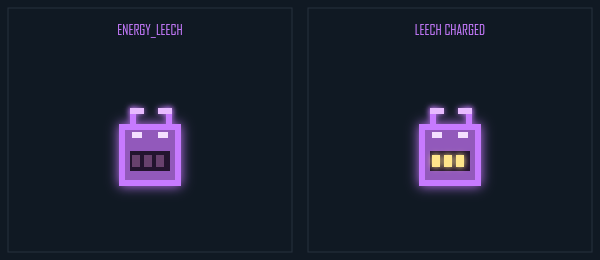
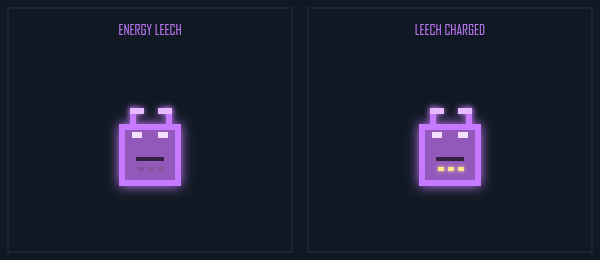
Polish Ruby Star rewards, event pacing, and Prayer warnings

Changed region(s): [[0.69, 0.5538, 0.81, 0.6769], [0.21, 0.5538, 0.3, 0.6769], [0.18, 0.0923, 0.33, 0.1538]]

diff --git a/app/ruby-star/page.tsx b/app/ruby-star/page.tsx
@@ -426,12 +426,7 @@ function drawMinimap(
       ctx.lineWidth = 1;
       ctx.strokeRect(bx - 4, by - 4, 10, 10);
       ctx.shadowBlur = 0;
-      if (e.type === 'blind_prayer' && (e.prayer?.rubyCastTicks ?? 0) > 0 && e.prayer!.rubyDestination >= 0) {
-        const destination = e.prayer!.rubyDestination;
-        const center = [[10, 10], [39, 10], [10, 39], [39, 39]][destination];
-        ctx.strokeStyle = Math.floor(tickN / 8) % 2 ? '#ffffff' : '#ffdd22';
-        ctx.strokeRect(MX + center[0] * S - 4, MY + center[1] * S - 4, 10, 10);
-      }
+
     }
   }
 
@@ -439,7 +434,7 @@ function drawMinimap(
   ctx.font = '6px monospace';
   ctx.textAlign = 'center';
   ctx.textBaseline = 'middle';
-  const labelPts = [[10, 10], [39, 10], [10, 39], [39, 39]];
+  const labelPts = [[3, 3], [32, 3], [3, 32], [32, 32]];
   for (let i = 0; i < 4; i++) {
     const [lx, ly] = labelPts[i];
     ctx.fillStyle = CHAMBER_COLORS[i] + 'cc';
@@ -3184,17 +3179,18 @@ function drawEnemy(ctx: CanvasRenderingContext2D, e: ReturnType<typeof createIni
   if (!flash) {
     const eyeY = sy - half + pad + 1;
     if (e.type === 'energy_leech') {
-      const width=Math.floor(size*.6),left=Math.round(sx-width/2),top=Math.round(sy-1);
-      ctx.fillStyle='#f4dfff';
-      ctx.fillRect(left,eyeY,5,3);ctx.fillRect(left+width-5,eyeY,5,3);
-      // Three cells fill as it steals energy; full brightness at 60 stored energy.
-      ctx.fillStyle='#23142e';ctx.fillRect(left-1,top-1,width+2,10);
-      const cells=Math.min(3,Math.ceil((e.stolenEnergy??0)/20)),cellW=Math.max(2,Math.floor((width-4)/3));
-      for(let i=0;i<3;i++){
-        ctx.shadowColor='#ffe58b';ctx.shadowBlur=i<cells?4:0;
-        ctx.fillStyle=i<cells?'#ffe58b':'#68416d';ctx.fillRect(left+i*(cellW+2),top+1,cellW,6);
+      const width = Math.floor(size * .6), left = Math.round(sx - width / 2);
+      ctx.fillStyle = '#f4dfff';
+      ctx.fillRect(left, eyeY, 5, 3); ctx.fillRect(left + width - 5, eyeY, 5, 3);
+      // Slim collector slit with inset storage lights, contained within the shell.
+      const mouthY = Math.round(sy + 1), cells = Math.min(3, Math.ceil((e.stolenEnergy ?? 0) / 20));
+      ctx.fillStyle = '#352043'; ctx.fillRect(left + 2, mouthY, width - 4, 2);
+      for (let i = 0; i < 3; i++) {
+        ctx.shadowColor = '#ffe58b'; ctx.shadowBlur = i < cells ? 3 : 0;
+        ctx.fillStyle = i < cells ? '#ffe58b' : '#82549e';
+        ctx.fillRect(Math.round(sx) - 6 + i * 5, mouthY + 5, 3, 2);
       }
-      ctx.shadowBlur=0;
+      ctx.shadowBlur = 0;
     } else if (e.type === 'sniper') {
       // 1 large central cycloptic eye
       const eyeSz = Math.max(4, Math.floor(size * 0.34));
@@ -4485,6 +4481,7 @@ export default function RubyStarPage() {
   const powered = (state?.poweredTicks ?? 0) > 0 || (state?.starEnergy ?? 0) >= STAR_ENERGY_MAX;
   const carrying = state?.playerCarryingRuby ?? true;
   const godPanelTop = 8;
+  const prayerSpawnWarning = phase === 'playing' && (state?.bossSpawnTicks ?? 0) > 0 && !!state && isMovementReversed(state);
   const playerStatuses: { key: string; label: string; color: string; seconds?: number; progress?: number }[] = [];
   if(state){
     if(state.playerFrozenTicks>0)playerStatuses.push({key:'frozen',label:'FROZEN',color:'#b4eaff',seconds:state.playerFrozenTicks/60,progress:state.playerFrozenTicks/90});
@@ -4869,7 +4866,7 @@ export default function RubyStarPage() {
           </div>
 
           <div className="rs-god-actions">
-            <button type="button" disabled={phase !== 'playing'}
+            <button type="button" disabled={phase !== 'playing' || !!state?.constellationChoices.length}
               style={{ cursor: phase === 'playing' ? 'pointer' : 'default', background: '#243148', color: '#bce2ff', border: '2px solid #72baff', opacity: phase === 'playing' ? 1 : 0.5 }}
               onClick={() => { if (stateRef.current) godAdvanceStage(stateRef.current); rerender(); }}>Stage +1</button>
             <button type="button" aria-label="Reset game" onClick={handleRestart}
@@ -4959,7 +4956,16 @@ export default function RubyStarPage() {
           </div>
         )}
 
-        {phase === 'playing' && (state?.ascensionBannerTicks ?? 0) > 0 && (
+        {prayerSpawnWarning && (
+          <div role="alert" className="rs-prayer-warning" style={{ position: 'absolute', top: 64, left: '50%', transform: 'translateX(-50%)',
+            zIndex: 90, maxWidth: 'calc(100% - 24px)', width: 'max-content', boxSizing: 'border-box', padding: '10px 16px',
+            background: '#201b0af5', border: '2px solid #ffe477', boxShadow: '0 0 24px #d8ac3244', textAlign: 'center', pointerEvents: 'none' }}>
+            <div style={{ color: '#cbb775', fontFamily: 'var(--font-mono)', fontSize: 12, fontWeight: 700 }}>BLIND PRAYER SPAWNED</div>
+            <div style={{ color: '#fff0ac', fontFamily: 'var(--font-pixel)', fontSize: 16, lineHeight: 1.8 }}>MOVEMENT REVERSED</div>
+          </div>
+        )}
+
+        {phase === 'playing' && !prayerSpawnWarning && (state?.ascensionBannerTicks ?? 0) > 0 && (
           <div role="status" style={{ position: 'absolute', top: '72px', left: '50%', transform: 'translateX(-50%)',
             width: 'max-content', maxWidth: 'calc(100% - 24px)', boxSizing: 'border-box', textAlign: 'center', pointerEvents: 'none',
             padding: '14px 22px', background: 'rgba(12,9,22,.94)', border: '2px solid #d7a5ff', boxShadow: '0 0 24px rgba(180,100,255,.3)', borderRadius: '2px' }}>
@@ -4970,7 +4976,7 @@ export default function RubyStarPage() {
           </div>
         )}
 
-        {phase === 'playing' && (state?.bossSpawnTicks ?? 0) > 0 && (state?.ascensionBannerTicks ?? 0) <= 0 && (
+        {phase === 'playing' && !prayerSpawnWarning && (state?.bossSpawnTicks ?? 0) > 0 && (state?.ascensionBannerTicks ?? 0) <= 0 && (
           <div role="status" style={{
             position: 'absolute', top: '80px', left: '50%', transform: 'translateX(-50%)',
             width: 'max-content', maxWidth: 'calc(100% - 24px)', boxSizing: 'border-box',
@@ -5065,7 +5071,7 @@ export default function RubyStarPage() {
         )}
 
         {state && (state.ambientEvents.warning || state.ambientEvents.active) && <div className="rs-event-banner" role="status"
-          style={{ color: state.ambientEvents.rewardTicks > 0 ? '#ffe18c' : AMBIENT_EVENTS[(state.ambientEvents.warning || state.ambientEvents.active)!.kind].color,
+          style={{ top: prayerSpawnWarning ? 148 : (state.ascensionBannerTicks > 0 ? 212 : state.bossSpawnTicks > 0 ? 140 : 64), color: state.ambientEvents.rewardTicks > 0 ? '#ffe18c' : AMBIENT_EVENTS[(state.ambientEvents.warning || state.ambientEvents.active)!.kind].color,
             borderColor: state.ambientEvents.rewardTicks > 0 ? '#ffe18c' : AMBIENT_EVENTS[(state.ambientEvents.warning || state.ambientEvents.active)!.kind].color }}>
           {state.ambientEvents.rewardTicks > 0 ? <strong>STELLAR SHARD COLLECTED</strong> : (() => {
             const event = state.ambientEvents.warning || state.ambientEvents.active!;

diff --git a/app/ruby-star/engine.ts b/app/ruby-star/engine.ts
@@ -98,9 +98,7 @@ function offerConstellation(state: GameState) {
   const choices: Constellation[] = [];
   while (choices.length < 2 && pool.length) choices.push(pool.splice(Math.floor(Math.random() * pool.length), 1)[0]);
   state.constellationChoices = choices;
-  state.gamePhase = 'constellation';
-  state.playerQueuedDirX = state.playerQueuedDirY = 0;
-  stopChargeSound(); stopPoisonSound(); stopSingularitySound(); stopGaiaFieldSound();
+  state.constellationDelayTicks = 60;
 }
 
 export function chooseConstellation(state: GameState, kind: Constellation): boolean {
@@ -430,6 +428,7 @@ export interface GameState {
   bossSpawnTicks: number;   // remaining ticks of the post-spawn name banner
   constellations: Constellation[];
   constellationChoices: Constellation[];
+  constellationDelayTicks: number;
   bossesKilled: number;     // tracks how many bosses have been killed (each +15 HP)
   bossPool: BossType[];     // natural spawns draw every boss once before reshuffling
   lastNaturalBoss: BossType | null;
@@ -909,6 +908,7 @@ export function createInitialState(): GameState {
     bossSpawnTicks: 0,
     constellations: [],
     constellationChoices: [],
+    constellationDelayTicks: 0,
     bossesKilled: 0,
     bossPool: [],
     lastNaturalBoss: null,
@@ -3395,6 +3395,12 @@ function takeNextNaturalBoss(state: GameState): BossType {
 export function tick(state: GameState) {
   if (state.gamePhase !== 'playing') { stopPoisonSound(); stopSingularitySound(); stopGaiaFieldSound(); return; }
 
+  if (state.constellationDelayTicks > 0 && --state.constellationDelayTicks === 0 && state.constellationChoices.length) {
+    state.gamePhase = 'constellation';
+    state.playerQueuedDirX = state.playerQueuedDirY = 0;
+    stopChargeSound(); stopPoisonSound(); stopSingularitySound(); stopGaiaFieldSound();
+    return;
+  }
   state.gameTick++;
   if (state.meteoriteImpact && --state.meteoriteImpact.ticks <= 0) state.meteoriteImpact = null;
   if(state.lunarDecoy){
@@ -3633,7 +3639,7 @@ export function godSetNoMobs(state: GameState, enabled: boolean) {
 // removing whichever boss-tier enemy currently exists (queen decoys are left alone —
 // they persist independently of their queen per normal rules).
 export function godAdvanceStage(state: GameState) {
-  if (state.gamePhase !== 'playing') return;
+  if (state.gamePhase !== 'playing' || state.constellationChoices.length) return;
   state.bossesKilled++;
   state.difficultyLevel = Math.max(state.difficultyLevel, Math.min(DIFFICULTY_TIERS.length - 1, 3 + state.bossesKilled));
   if (state.bossesKilled === SPECIAL_UNLOCK_KILLS) state.ascensionBannerTicks = 360;

diff --git a/app/ruby-star/events.ts b/app/ruby-star/events.ts
@@ -17,9 +17,9 @@ export interface AmbientEventState {
 }
 export const AMBIENT_WARNING_TICKS = 180;
 export const STAR_FALL_TICKS = 36;
-const delay = () => 5400 + Math.floor(Math.random() * 3601);
+const delay = () => 10800 + Math.floor(Math.random() * 7201);
 export function createAmbientEvents(): AmbientEventState {
-  return { timer: 4500 + Math.floor(Math.random() * 2401), pool: [], warning: null, active: null, rewardTicks: 0 };
+  return { timer: 9000 + Math.floor(Math.random() * 3601), pool: [], warning: null, active: null, rewardTicks: 0 };
 }
 export function isEclipseActive(state: GameState): boolean {
   return state.ambientEvents.active?.kind === 'eclipse';

diff --git a/docs/ruby-star/VISUALS.md b/docs/ruby-star/VISUALS.md
@@ -46,7 +46,7 @@ Broad stepped cast rings generally use 12px rectangle steps, light/dark halves, 
 
 ## Aliens and bosses
 
-Maintain the model identities below. Ordinary aliens use a glowing square rim, dark inset and restrained antenna/eye glints. Healer is pink, Shielder teal, Armored blue, Runner orange, Ghost violet/translucent, Splitter green with two separated boxes. Energy Leech uses lavender `#c77aff`, inward collector prongs, two pale slit eyes and three gold storage cells, dark when empty and bright at 20/40/60+ stored energy; drain sparks travel inward along an angular tether.
+Maintain the model identities below. Ordinary aliens use a glowing square rim, dark inset and restrained antenna/eye glints. Healer is pink, Shielder teal, Armored blue, Runner orange, Ghost violet/translucent, Splitter green with two separated boxes. Energy Leech uses lavender `#c77aff`, inward collector prongs, two pale slit eyes a slim collector slit and three inset storage lights, dim lavender when empty and gold at 20/40/60+ stored energy; drain sparks travel inward along an angular tether.
 
 Boss model identities:
 
@@ -69,8 +69,8 @@ Boss attacks use pale luminous cores and selective matching glow. King has stepp
 - Ruby: pink glowing square rim, dark inset, small pale central star, sparse pink fragments. Bomb: orange/gold equivalent with stepped fuse and isolated glowing spark. Bomb affected-tile overlay has a 4px exposed stepped perimeter; explosion has square fronts/flame fragments and a bright center.
 - Heal pickup/reward: red/pink shaded pixel cross. Energy: blue shaded bolt/pale core; rewards use full-energy rays/rising pixel star. Speed: turquoise rays/trails. Electric: separated yellow bolts. Full restore: larger gold rays/rising star. Avoid smooth generic particle circles.
 - Normal shields: **plain single square**, 4px crisp edges, shaded opacity/faint fill and one small border glint. Player blue, Ruby teal. Saturn's faceted ward remains distinct.
-- HUD: square corners, restrained luminous borders. Buttons use filled blue panels, clearly visible 2px borders, pale bold 15px labels and distinct hover/focus states; avoid faint ghost buttons against the dark battlefield. Keep HP, Ruby and energy on the left, labeled by simple luminous pixel icons: solid green plus, solid pink stepped diamond Ruby icon, and solid blue stepped energy bolt (gold while powered), with no inner shading or highlights; **Stage** is exactly centered and visually dominant with a larger pale number and subtle purple text glow, without a border or background panel. Time sits to its right, followed by an icon-only bomb indicator and controls. Bomb states use a glowing orange ready case/green corner, a pulsing lit fuse when armed, and a dim case with a filling square perimeter during cooldown. Accessible labels/tooltips describe the state. Remove the celestial skill slot from the top bar; F and the mobile SPECIAL control remain. Remove score from top panel. God panel sits at the upper left of the battlefield and scrolls; the minimap stays upper right. Minimap uses brighter chamber floor tints, blue-gray hallway floors, crisp chamber-colored room boundaries and pale-blue corridor edges, following connected geometry with open doorways; internal cover does not add boundary clutter. It has no bright central teleport-tile markers; retain room labels and enemy/boss indicators.
-- Game-over: a square dark-blue panel with a pale pixel RUBY STAR title, large purple stage number, four clear blue stat tiles and a high-contrast full-width PLAY AGAIN button. Use bold readable labels and a compact landscape layout; place it above the God panel. Display stage reached; no “lost” in title and no “bosses defeated” replacing stage. Status tags appear only when applicable (chill/freeze, reversal, reduced healing, temporary Ruby placement).
+- HUD: square corners, restrained luminous borders. Buttons use filled blue panels, clearly visible 2px borders, pale bold 15px labels and distinct hover/focus states; avoid faint ghost buttons against the dark battlefield. Keep HP, Ruby and energy on the left, labeled by simple luminous pixel icons: solid green plus, solid pink stepped diamond Ruby icon, and solid blue stepped energy bolt (gold while powered), with no inner shading or highlights; **Stage** is exactly centered and visually dominant with a larger pale number and subtle purple text glow, without a border or background panel. Time sits to its right, followed by an icon-only bomb indicator and controls. Bomb states use a glowing orange ready case/green corner, a pulsing lit fuse when armed, and a dim case with a filling square perimeter during cooldown. Accessible labels/tooltips describe the state. Remove the celestial skill slot from the top bar; F and the mobile SPECIAL control remain. Remove score from top panel. God panel sits at the upper left of the battlefield and scrolls; the minimap stays upper right. Minimap uses brighter chamber floor tints, blue-gray hallway floors, crisp chamber-colored room boundaries and pale-blue corridor edges, following connected geometry with open doorways; internal cover does not add boundary clutter. Teleport pads and ritual destination frames are absent from the minimap; labels sit near chamber corners. Retain enemy/boss indicators.
+- Game-over: a square dark-blue panel with a pale pixel RUBY STAR title, large purple stage number, four clear blue stat tiles and a high-contrast full-width PLAY AGAIN button. Use bold readable labels and a compact landscape layout; place it above the God panel. Display stage reached; no “lost” in title and no “bosses defeated” replacing stage. Prayer spawning shows a prominent four-second MOVEMENT REVERSED warning above other announcements, including during Eclipse and Ascension; the reversal status tag remains while she lives. Status tags appear only when applicable (chill/freeze, reversal, reduced healing, temporary Ruby placement).
 - Navigation arrows are filled stepped pixel SVG icons, not font arrow glyphs. Rules sheets use a blue panel/header, strong dividers, filled control-key cells, larger bold text and high-contrast square buttons.
 - Rules: keep main sheet simple (controls, Ruby, meteor, teleport, energy, Ascension, hints). Prominent filled **ALIENS & BOSSES** button opens 13 alien entries and 8 bosses. Each boss labels reward **“Celestial skill: NAME”**. Both sheets pause gameplay; reopening starts on main rules.
 

diff --git a/docs/ruby-star/EVENTS.md b/docs/ruby-star/EVENTS.md
@@ -4,7 +4,7 @@
 
 Meteors remain the regular main hazard. Three minor events occur occasionally and never overlap each other. Every event gives a three-second warning, its name/countdown and minimap markers before activating. Warnings and events pause with rules, teleport selection and Constellation choices, and stop advancing after game over. Restart clears them.
 
-Natural first warning is scheduled after 75–115 seconds of unpaused play. After an event finishes or its shard is collected, the next warning waits 90–150 seconds. Due events wait for active meteor warnings and boss warning/spawn announcements to clear. A shuffled pool presents all three event types before refilling. Meteors continue independently and may happen during an already-active minor event. Manual God triggers retain the warning, reject overlapping events and do not consume the natural pool.
+Natural first warning is scheduled after 150–210 seconds of unpaused play. After an event finishes or its shard is collected, the next warning waits 180–300 seconds. Due events wait for active meteor warnings and boss warning/spawn announcements to clear. A shuffled pool presents all three event types before refilling. Meteors continue independently and may happen during an already-active minor event. Manual God triggers retain the warning, reject overlapping events and do not consume the natural pool.
 
 | Event | Active duration | Behavior |
 | --- | --- | --- |

diff --git a/docs/ruby-star/SKILLS.md b/docs/ruby-star/SKILLS.md
@@ -4,7 +4,7 @@
 
 ## Constellations
 
-After every third actual boss defeat (3, 6, 9, 12, 15, ...), pause and offer two distinct random unowned Constellations. Each can be chosen only once per run; there are no ranks or repeat picks. Choices continue after Ascension. When one remains, offer it alone; after all 20 are owned, stop offering Constellations. Restart clears owned upgrades and pending choices.
+After every third actual boss defeat (3, 6, 9, 12, 15, ...), wait one second of unpaused play for defeat effects, then pause and offer two distinct random unowned Constellations. Each can be chosen only once per run; there are no ranks or repeat picks. Choices continue after Ascension. When one remains, offer it alone; after all 20 are owned, stop offering Constellations. Restart clears owned upgrades and pending choices.
 
 Click, tap, keys 1/2, or focused-button Enter/Space selects. Keyboard focus stays in the dialog. `gamePhase='constellation'` freezes simulation and rejects gameplay actions. Boss restoration, hazard cleanup and celestial rewards still resolve, including meteor/special defeats. Choosing clears held mouse/touch movement and attack input. The HUD lists owned constellations, with descriptions available on hover.
 
